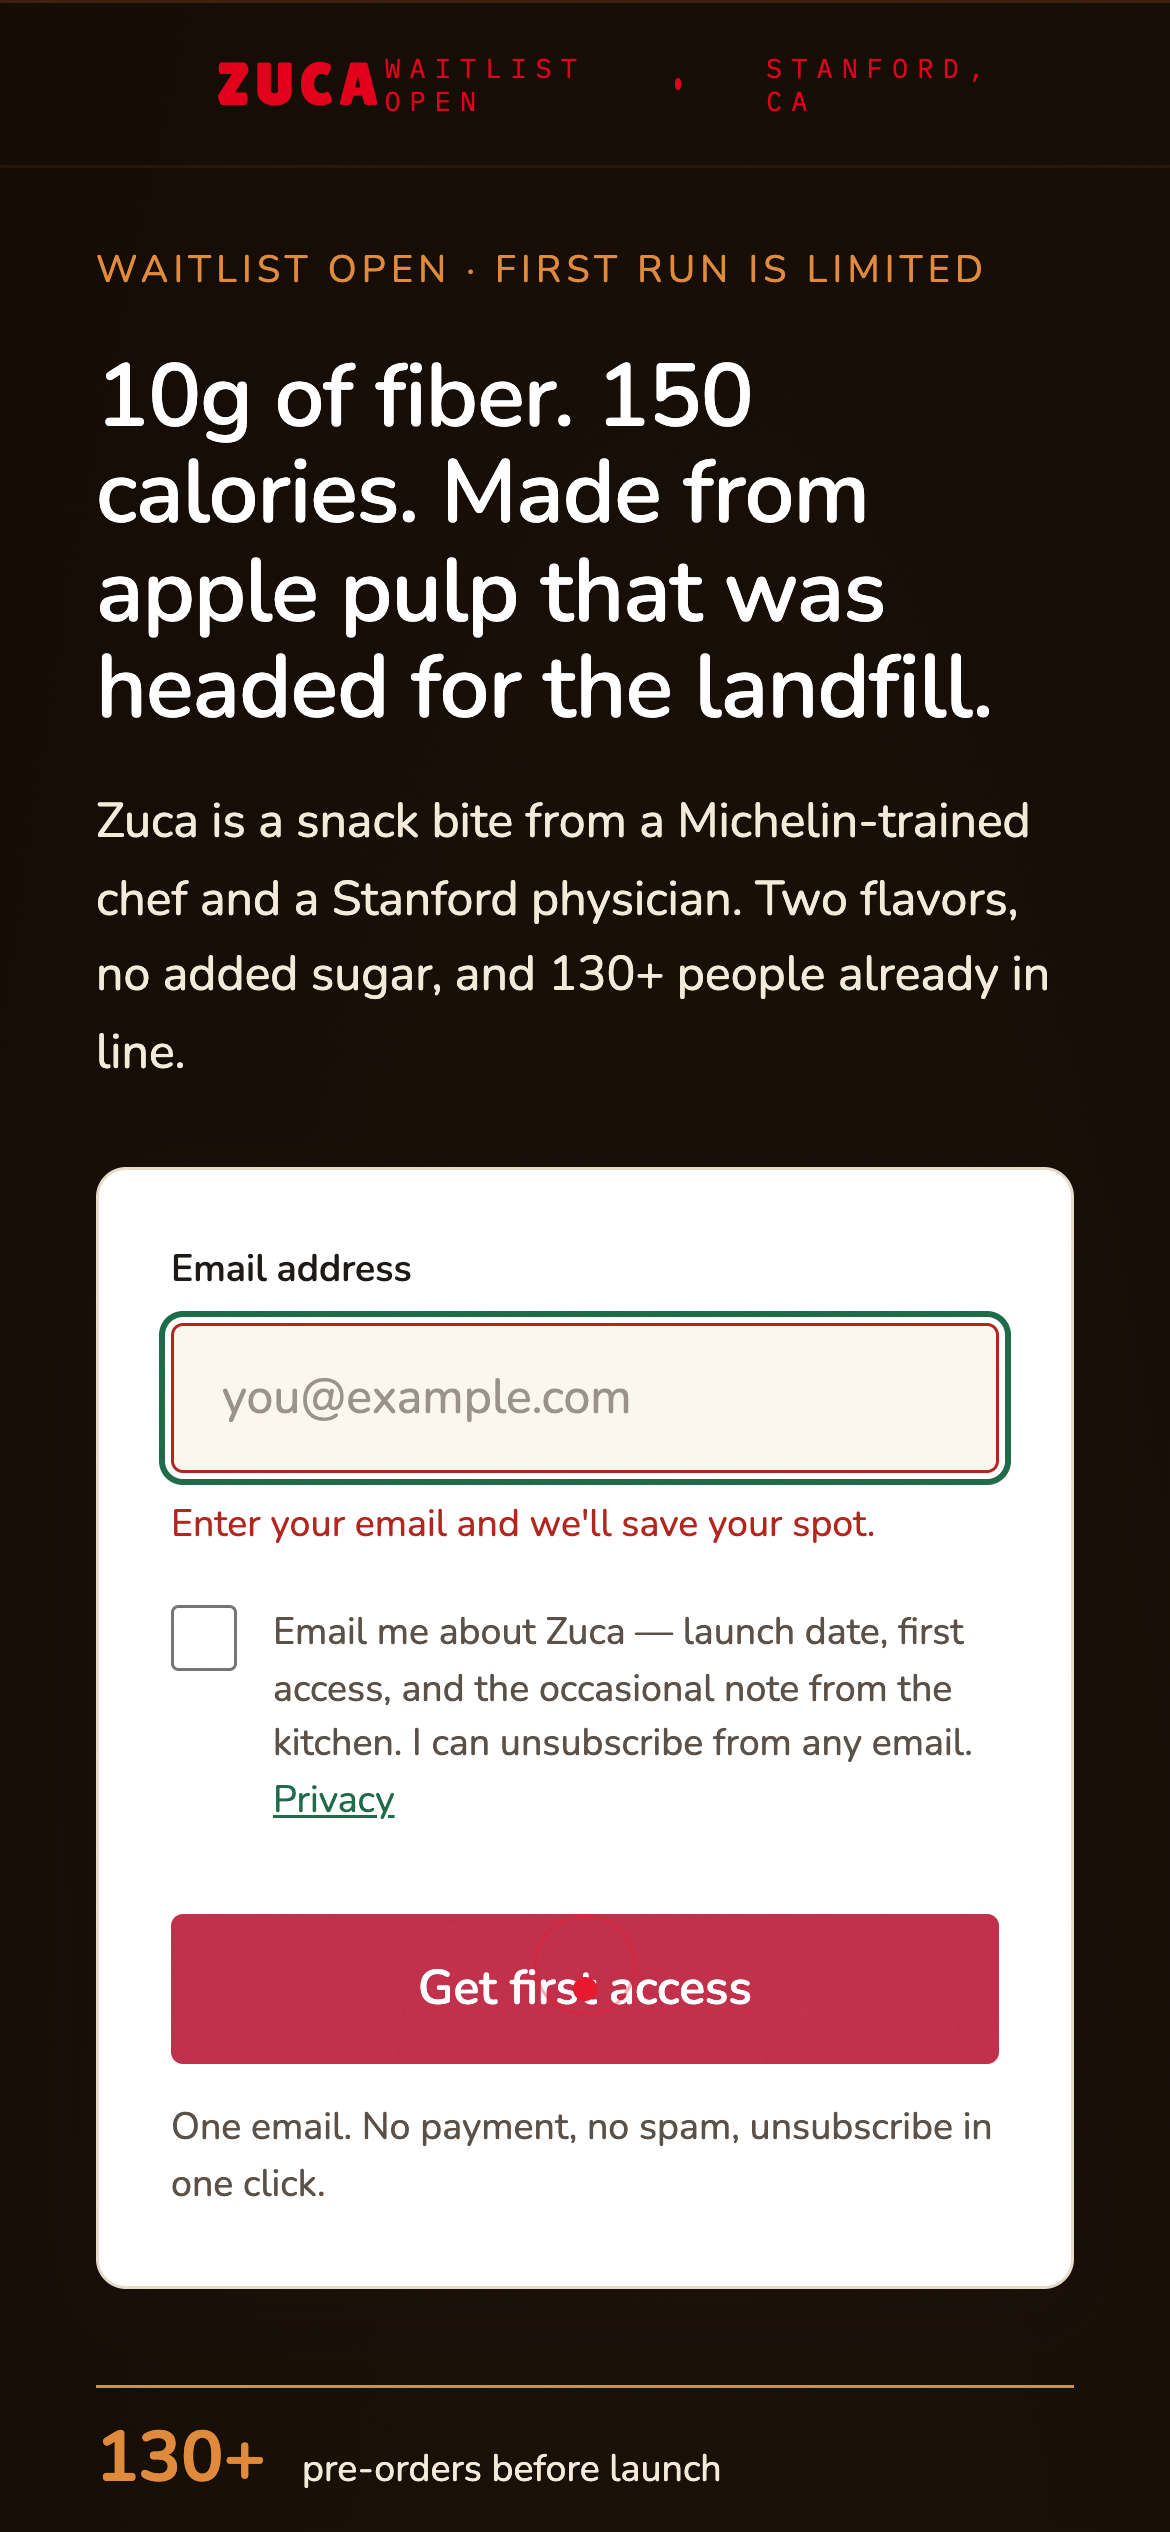
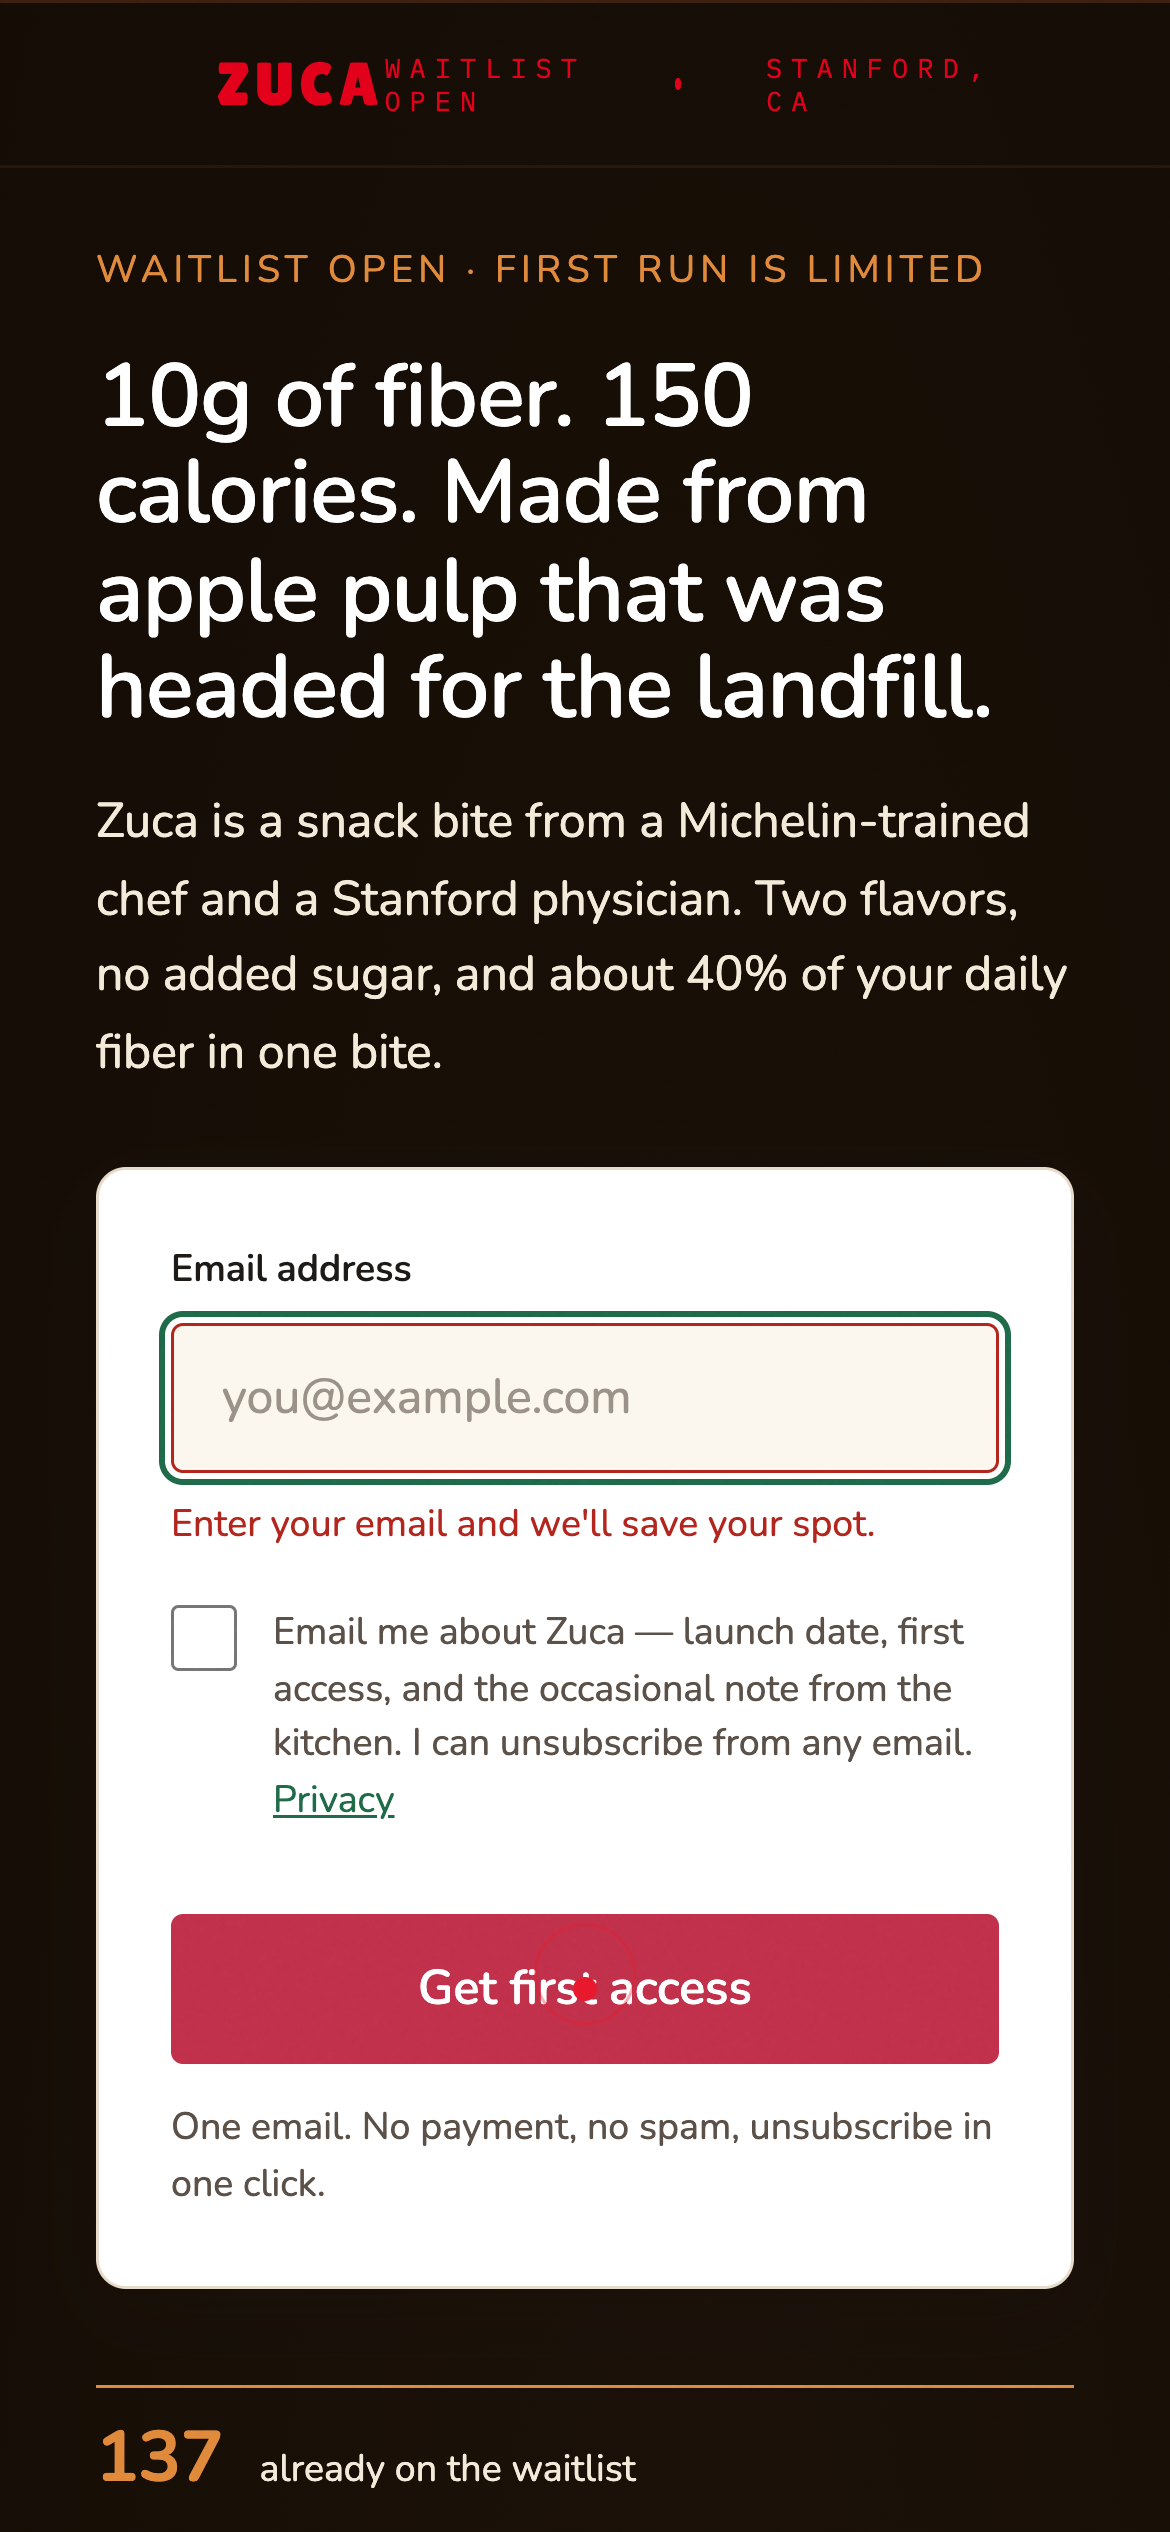
copy(growth): finish the pre-order sweep, confirm ZIP is safe
Pre-order sweep (security §3a)
- Eight of their ten occurrences were already gone here: the modal holding
  three was deleted, both CTAs became "Get first access", nav and hero
  eyebrow became waitlist language, counter became "already in line".
- "130+ pre-orders before launch" → live count + "already on the waitlist".
  Past-tense pre-order claim, and a hardcoded number that goes stale.
- "Day 1 sold out at a physician symposium" → "samples gone". Not on their
  list, same defect: the samples ran out, they were not sold. It asserts a
  transaction that did not happen, exactly as "reserved" does.
- Headline variant A's subhead hardcoded "130+ people already in line";
  replaced with a fact that cannot go stale.
- The count is no longer hardcoded anywhere. ProofStrip reads it live from
  the sheet, so deleting the test rows self-corrects the site. The row is
  always rendered and only the numeral arrives late, so no layout shift.
- Left alone as accurate: the preorder_now intent enum, the future-tense
  consent wording, and the fields.js comment describing the old modal.

ZIP confirmed
- The bug was real and worse than a rejected field: the schema is .strict(),
  so an invalid zip 400s the whole submission and loses the email with it.
  Verified against their waitlistSchema: "0150", "0150 Oslo" and "SW1A 1AA"
  all fail invalid_zip.
- Confirmed from real browser POST bodies: Europe/Oslo and Asia/Tokyo do not
[…]

Changed region(s): [[0.4615, 0.3744, 0.9231, 0.4056], [0.1538, 0.9672, 0.6154, 0.9984], [0.0923, 0.4056, 0.3692, 0.4368]]

diff --git a/src/content/copy.js b/src/content/copy.js
@@ -41,7 +41,7 @@ export const HEADLINES = {
     id: "a",
     headline: "10g of fiber. 150 calories. Made from apple pulp that was headed for the landfill.",
     subhead:
-      "Zuca is a snack bite from a Michelin-trained chef and a Stanford physician. Two flavors, no added sugar, and 130+ people already in line.",
+      "Zuca is a snack bite from a Michelin-trained chef and a Stanford physician. Two flavors, no added sugar, and about 40% of your daily fiber in one bite.",
   },
   // B — origin story first. Best story, but asks the reader to care about
   // juiceries before they care about the snack.
@@ -87,11 +87,29 @@ export const hero = {
 
 // ─── Proof strip ─────────────────────────────────────────────────────────────
 // Specificity is the trust mechanism. Every line is a verifiable event.
-export const proof = [
-  { value: "130+", label: "pre-orders before launch" },
-  { value: "45 min", label: "to run out at Stanford Demo Day" },
-  { value: "Day 1", label: "sold out at a physician symposium" },
-];
+//
+// ── NO PRE-ORDER LANGUAGE ────────────────────────────────────────────────────
+// No payment has been taken, no order exists, and no contract of sale has been
+// formed, so nobody here may be described as having pre-ordered or reserved
+// anything. Past and present tense about the existing signups: they joined a
+// waitlist. Future tense ("when pre-orders open") is accurate and fine.
+// `/terms` already says joining is not a purchase — the site must not
+// contradict its own terms.
+//
+// The same rule caught "sold out at a physician symposium": the samples ran
+// out, they were not sold. It asserts a transaction that did not happen,
+// exactly like "reserved" does.
+//
+// The waitlist size is NOT hardcoded here. It reads live from the sheet, so it
+// self-corrects when test rows are removed rather than baking a number into
+// copy that then becomes a claim we have to defend.
+export const proof = {
+  liveLabel: "already on the waitlist",
+  items: [
+    { value: "45 min", label: "for samples to run out at Stanford Demo Day" },
+    { value: "Day 1", label: "samples gone at a physician symposium" },
+  ],
+};
 
 // ─── Three-number block ──────────────────────────────────────────────────────
 export const numbers = {

diff --git a/src/components/content/sections.jsx b/src/components/content/sections.jsx
@@ -9,10 +9,19 @@ import { faq as faqCopy, numbers, proof, sections } from "../../content/copy.js"
 import { EVENTS, track } from "../../lib/analytics.js";
 import "./sections.css";
 
-export function ProofStrip() {
+/**
+ * @param {number|null} count live waitlist size, read from the sheet. The row
+ *   is always rendered so a late-arriving number cannot shift the page; only
+ *   the numeral appears when it lands.
+ */
+export function ProofStrip({ count = null }) {
   return (
     <ul className="zc-proof">
-      {proof.map((item) => (
+      <li>
+        <span className="zc-proof-value">{count != null && count > 0 ? count.toLocaleString() : ""}</span>
+        <span className="zc-proof-label">{proof.liveLabel}</span>
+      </li>
+      {proof.items.map((item) => (
         <li key={item.label}>
           <span className="zc-proof-value">{item.value}</span>
           <span className="zc-proof-label">{item.label}</span>

diff --git a/src/zuca-gate-v4.jsx b/src/zuca-gate-v4.jsx
@@ -1057,7 +1057,7 @@ export default function ZucaGate() {
             </section>
 
             <div className="zc zc-invert zc-hero si3" style={{ marginBottom: "2.5rem" }}>
-              <ProofStrip/>
+              <ProofStrip count={clicks}/>
             </div>
 
             <div className="data-row si4">
@@ -1219,7 +1219,7 @@ export default function ZucaGate() {
             <div className="footer-left zc zc-invert zc-hero">
               <h2 className="zc-hero-headline">{sections.waitlist.title}</h2>
               <p className="zc-hero-subhead">{sections.waitlist.body}</p>
-              <ProofStrip/>
+              <ProofStrip count={clicks}/>
             </div>
             <div className="footer-right" style={{width:"100%"}}>
               <WaitlistForm location="footer"/>

diff --git a/HANDOFF-growth.md b/HANDOFF-growth.md
@@ -417,6 +417,79 @@ saved** for everyone who doesn't open it.
 `step2_motivation_open` is instrumented, so the take-up rate is visible rather
 than assumed.
 
+## Pre-order sweep (security §3a)
+
+No payment has been taken, no order exists, no contract of sale has been formed
+— so nobody may be described as having pre-ordered or reserved anything.
+
+Eight of security's ten occurrences were already gone on this branch: the modal
+that held three of them was deleted, both CTAs became "Get first access", the
+nav became "Waitlist open", the hero eyebrow became "Waitlist open · First run
+is limited", and the counter became "already in line". Two remained, both in
+`src/content/copy.js`:
+
+| Was | Now | Why |
+|---|---|---|
+| `130+` · "pre-orders before launch" | live count · "already on the waitlist" | Past-tense pre-order claim, and a hardcoded number that goes stale. |
+| `Day 1` · "**sold out** at a physician symposium" | `Day 1` · "**samples gone** at a physician symposium" | **Not on security's list.** Same defect: the samples ran out, they were not sold. It asserts a transaction that did not happen, exactly like "reserved" does. |
+
+Also: headline variant A's subhead hardcoded "130+ people already in line".
+Replaced with "about 40% of your daily fiber in one bite" — a fact that cannot
+go stale.
+
+**The count is no longer hardcoded anywhere.** `ProofStrip` takes the live sheet
+count as a prop, so deleting the ten test rows self-corrects the site instead of
+leaving a number in copy that we would then have to defend. The row is always
+rendered and only the numeral appears when the fetch lands, so there is no
+layout shift.
+
+Left alone, per the rule that future tense is accurate:
+- `preorder_now` intent enum — records stated intent, not a transaction.
+- The `CONSENT_TEXTS` marketing wording — already future tense.
+- `fields.js` comment describing "the old pre-order modal" — historically
+  accurate description of a thing that existed.
+
+One piece of dead code I did not touch: the `PRE-ORDER MODAL` CSS block in the
+`css` template string in `zuca-gate-v4.jsx` (~130 lines) is orphaned now that
+the modal is gone. Invisible to users. I left it because UX is actively
+rewriting that string and removing it would only create a conflict — worth
+deleting on the UX branch.
+
+## ZIP — confirmed fixed, and the residual path is safe too
+
+Security is right that it was a live bug, and it was worse than a rejected
+field: the schema is `.strict()`, so an invalid `zip` **400s the entire
+submission** and loses the email with it.
+
+Confirmed against their real `waitlistSchema`:
+
+```
+zip "0150"        ✗ 400 invalid_zip     ← Norwegian postcode
+zip "0150 Oslo"   ✗ 400 invalid_zip
+zip "SW1A 1AA"    ✗ 400 invalid_zip
+zip ""            ✓ accepted → stored as null
+zip null          ✓ accepted → stored as null
+```
+
+Confirmed from real browser POST bodies, not from reading the code:
+
+| Visitor | Field rendered | Sends | Schema |
+|---|---|---|---|
+| `Europe/Oslo` | no | `zip: null` | ✓ |
+| `Asia/Tokyo` | no | `zip: null` | ✓ |
+| US, left blank | yes | `zip: null` (**not `""`**) | ✓ |
+| US, filled | yes | `zip: "94305"` | ✓ |
+
+**`null`, not empty string** — `buildPayload` coerces via `zip || null`, so an
+untouched field and a hidden field produce the identical record.
+
+**The residual path is covered as well.** A Norwegian on a VPN whose browser
+reports a US time zone *does* see the field. Tested: typing `0150 Oslo` leaves
+`0150` in the input (numeric-only, capped at 5), and submitting fires **zero**
+requests — the client-side check catches it first and shows "A US ZIP is five
+digits — or leave it blank." So even when the region guess is wrong, the 400 is
+unreachable and nothing is lost. The email was banked at step 1 regardless.
+
 ### Still open
 
 - **Analytics tool.** Nothing is installed. Events buffer and auto-forward the
